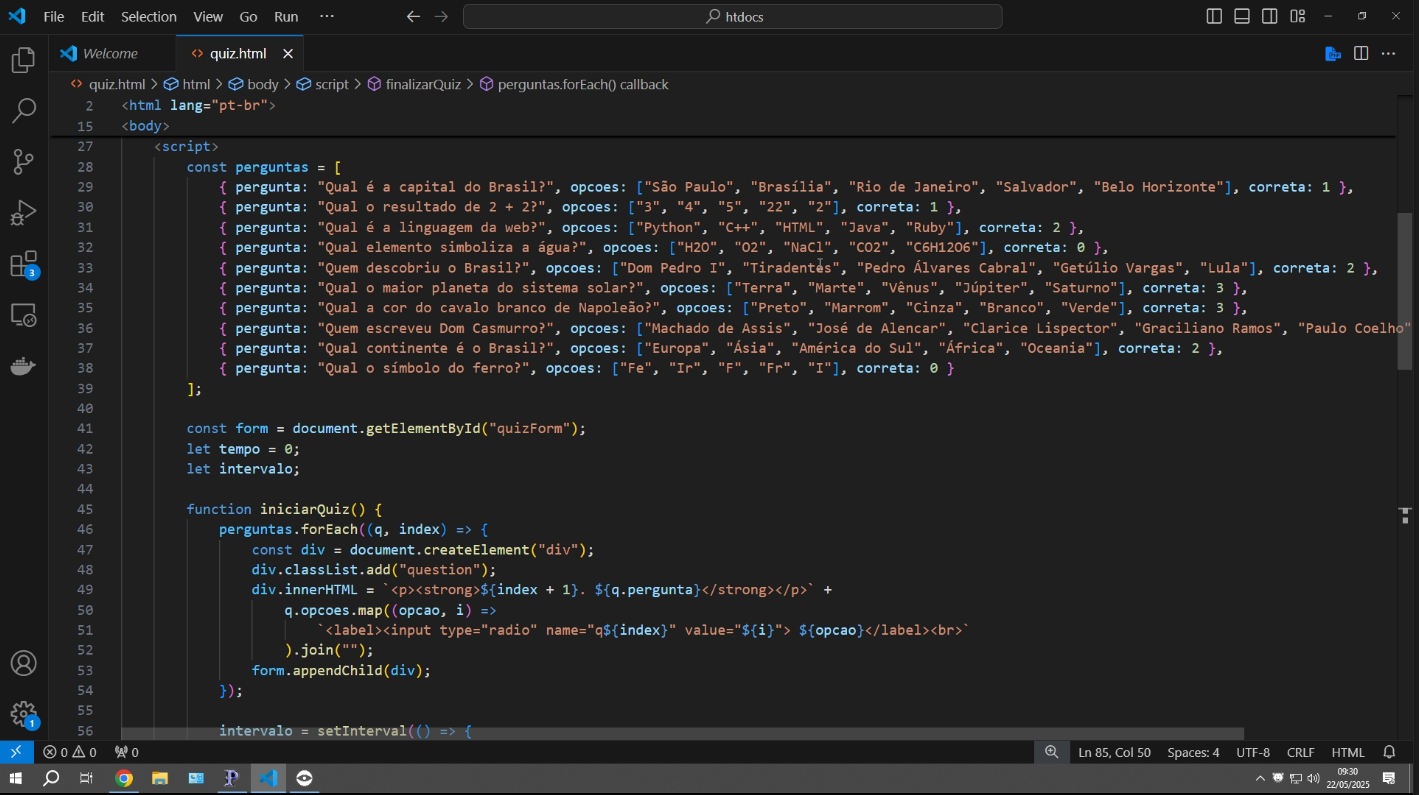
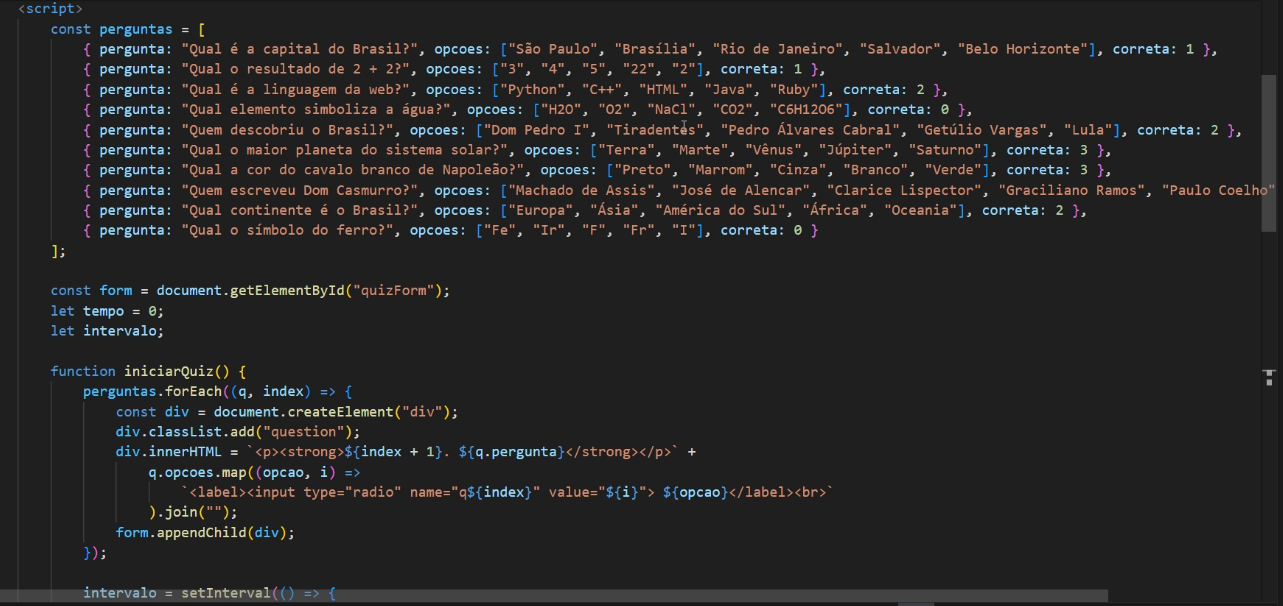
salvando

diff --git a/Aulas/aula11--22_05/index.html b/Aulas/aula11--22_05/index.html
@@ -1,0 +1,97 @@
+<!DOCTYPE html>
+<html lang="pt-br">
+<head>
+    <meta charset="UTF-8">
+    <meta name="viewport" content="width=device-width, initial-scale=1.0">
+    <title>Quiz com Tempo</title>
+    <style>
+        body { font-family: Arial, sans-serif; margin: 50px; }
+        .question { margin-bottom: 26px; }
+        .result { margin-top: 26px; font-weight: bold; }
+        .timer { font-size: 20px; margin-bottom: 20px; }
+        button { padding: 10px 26px; margin-top: 20px; }
+    </style>
+</head>
+<body>
+    <h1>Quiz de 10 Perguntas</h1>
+    <div class="timer" id="timer">Tempo: 0s</div>
+
+    <form id="quizForm">
+        <!-- Perguntas serão injetadas aqui via JS -->
+    </form>
+
+    <button type="button" onclick="finalizarQuiz()">Finalizar</button>
+
+    <div class="result" id="resultado"></div>
+
+    <script>
+        const perguntas = [
+            { pergunta: "Qual é a capital do Brasil?", opcoes: ["São Paulo", "Brasília", "Rio de Janeiro", "Salvador", "Belo Horizonte"], correta: 1 },
+            { pergunta: "Qual o resultado de 2 + 27", opcoes: ["3", "4", "5", "22", "29"], correta: 4 },
+            { pergunta: "Qual é a linguagem da web?", opcoes: ["Python", "C++", "HTML", "Java", "Ruby"], correta: 2 },
+            { pergunta: "Qual elemento simboliza a água?", opcoes: ["H2O", "O2", "NaCl", "CO2", "C6H12O6"], correta: 0 },
+            { pergunta: "Quem descobriu o Brasil?", opcoes: ["Dom Pedro I", "Tiradentes", "Pedro Álvares Cabral", "Getúlio Vargas", "Lula"], correta: 2 },
+            { pergunta: "Qual o maior planeta do sistema solar?", opcoes: ["Terra", "Marte", "Vênus", "Júpiter", "Saturno"], correta: 3 },
+            { pergunta: "Qual a cor do cavalo branco de Napoleão?", opcoes: ["Preto", "Marrom", "Cinza", "Branco", "Verde"], correta: 3 },
+            { pergunta: "Quem escreveu Dom Casmurro?", opcoes: ["Machado de Assis", "José de Alencar", "Clarice Lispector", "Graciliano Ramos", "Paulo Coelho"], correta: 0 },
+            { pergunta: "Qual continente é o Brasil?", opcoes: ["Europa", "Ásia", "América do Sul", "África", "Oceania"], correta: 2 },
+            { pergunta: "Qual o símbolo do ferro?", opcoes: ["Fe", "Ir", "F", "Fr", "I"], correta: 0 }
+        ];
+
+        const form = document.getElementById("quizForm");
+        let tempo = 0;
+        let intervalo;
+
+        function iniciarQuiz() {
+            perguntas.forEach((q, index) => {
+                const div = document.createElement("div");
+                div.classList.add("question");
+                div.innerHTML = `<p><strong>${index + 1}. ${q.pergunta}</strong></p>` +
+                    q.opcoes.map((opcao, i) =>
+                        `<label><input type="radio" name="q${index}" value="${i}"> ${opcao}</label><br>`
+                    ).join("");
+                form.appendChild(div);
+            });
+
+            intervalo = setInterval(() => {
+                tempo++;
+                document.getElementById("timer").innerText = `Tempo: ${tempo}s`;
+            }, 1000);
+        }
+
+        function finalizarQuiz() {
+            clearInterval(intervalo);
+            let corretas = 0;
+            let erradas = 0;
+
+            perguntas.forEach((q, index) => {
+                const selecionado = form.querySelector(`input[name="q${index}"]:checked`);
+                const opcoes = form.querySelectorAll(`input[name="q${index}"]`);
+
+                opcoes.forEach((op, i) => {
+                    const label = op.parentElement;
+                    if (i == q.correta) {
+                        label.style.fontWeight = "bold";
+                        label.style.color = "green";
+                    } else {
+                        label.style.color = "gray";
+                    }
+
+                    if (selecionado && parseInt(selecionado.value) === q.correta) {
+                        corretas++;
+                    }
+                });
+
+                if (!selecionado || parseInt(selecionado.value) !== q.correta) {
+                    erradas++;
+                }
+            });
+
+            document.getElementById("resultado").innerText =
+                `Você acertou ${corretas} e errou ${erradas}. Tempo total: ${tempo}s.`;
+        }
+
+        window.onload = iniciarQuiz;
+    </script>
+</body>
+</html>
